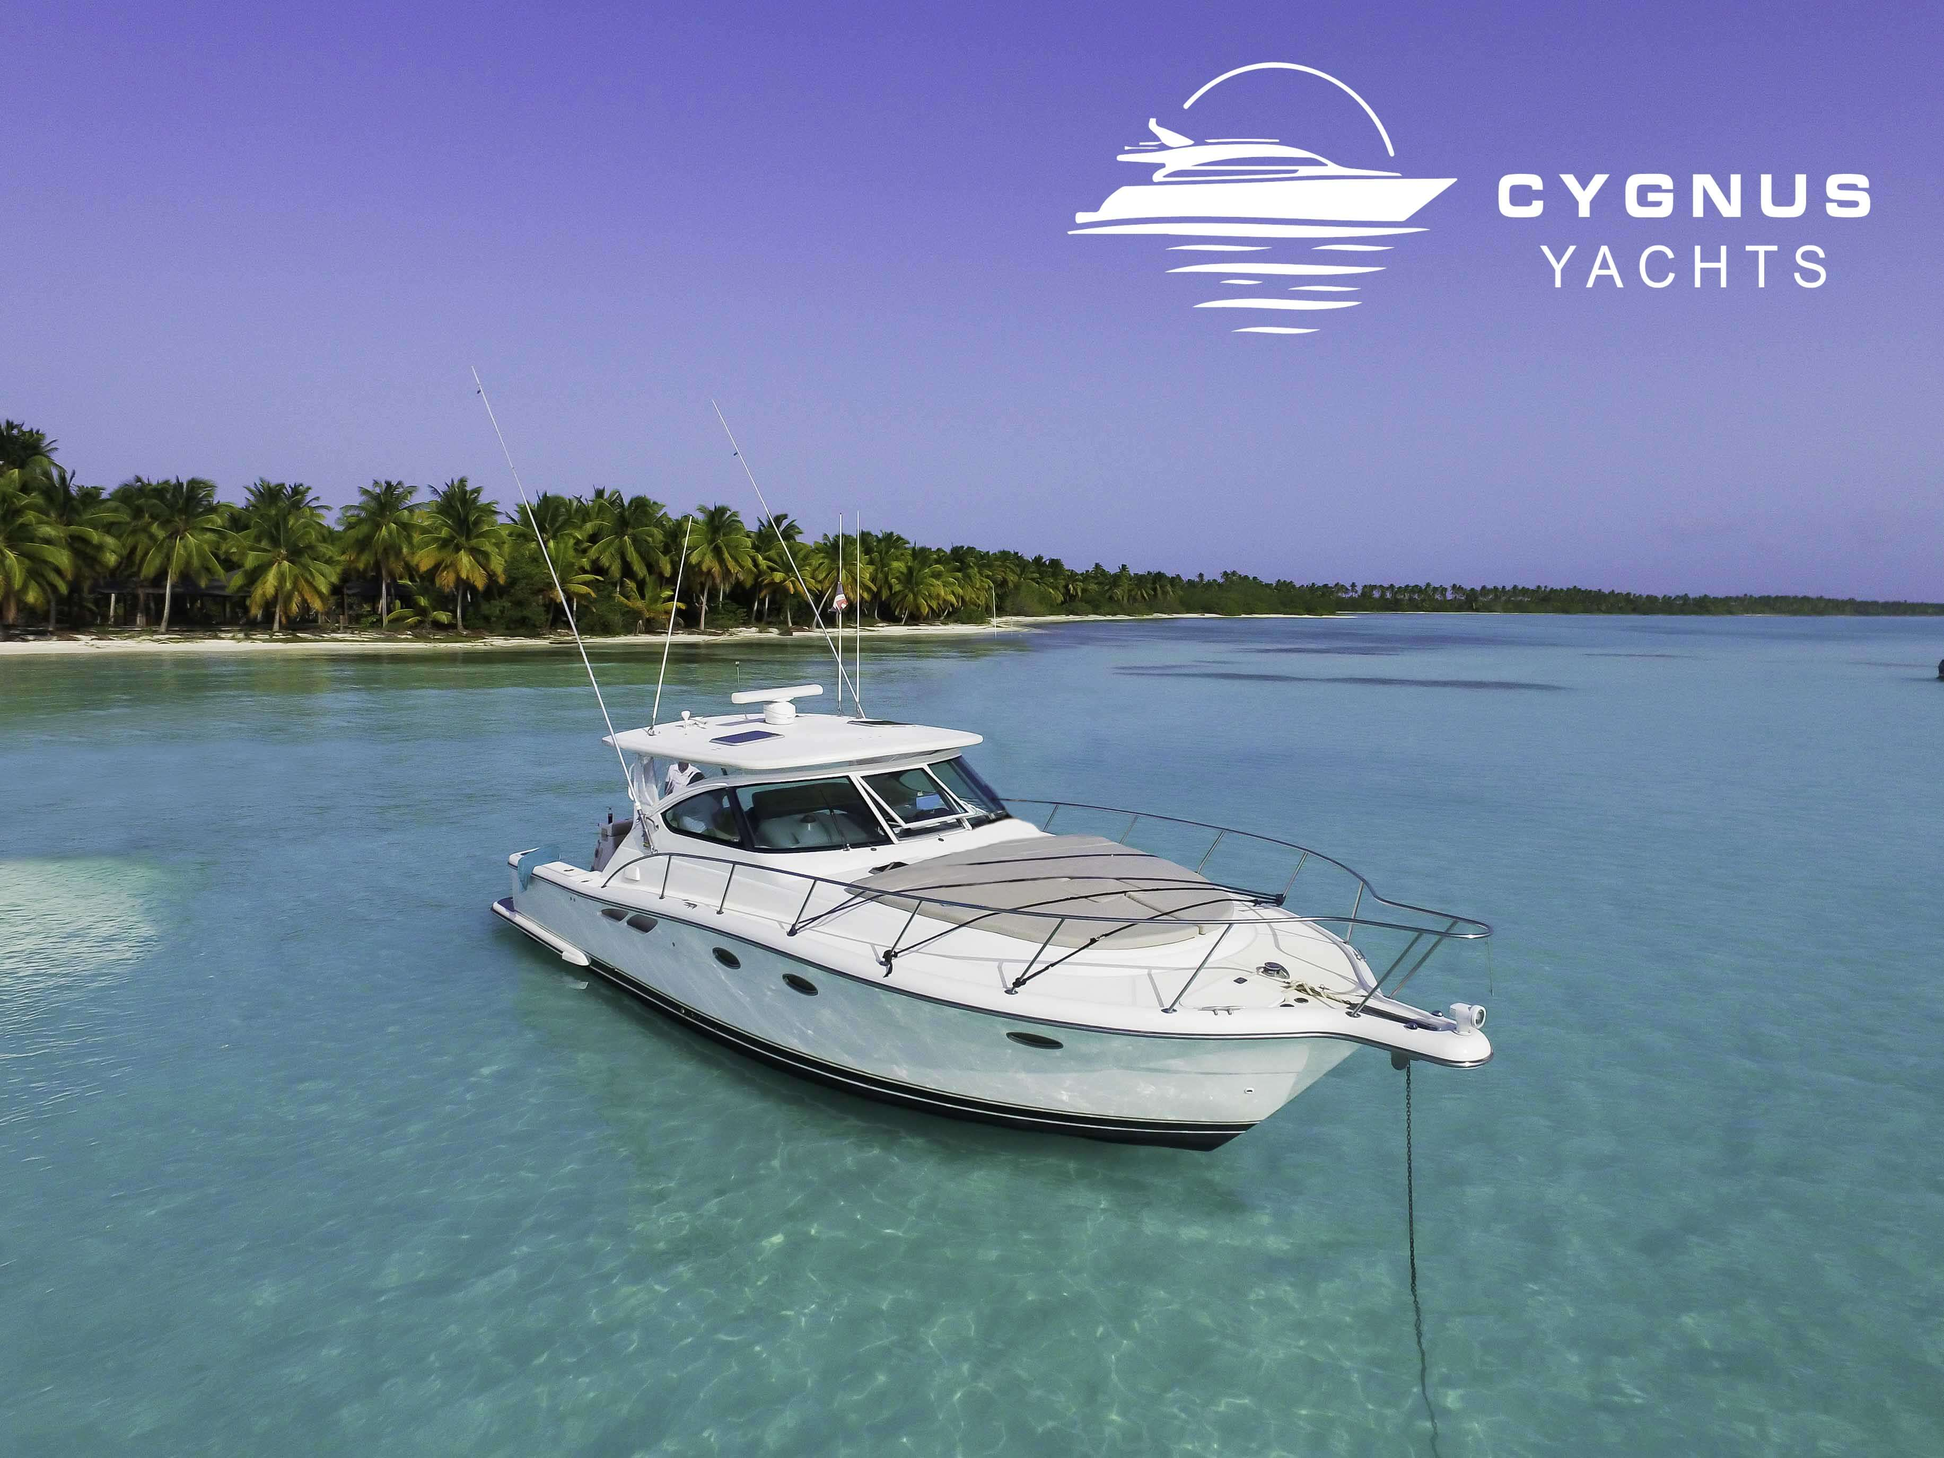
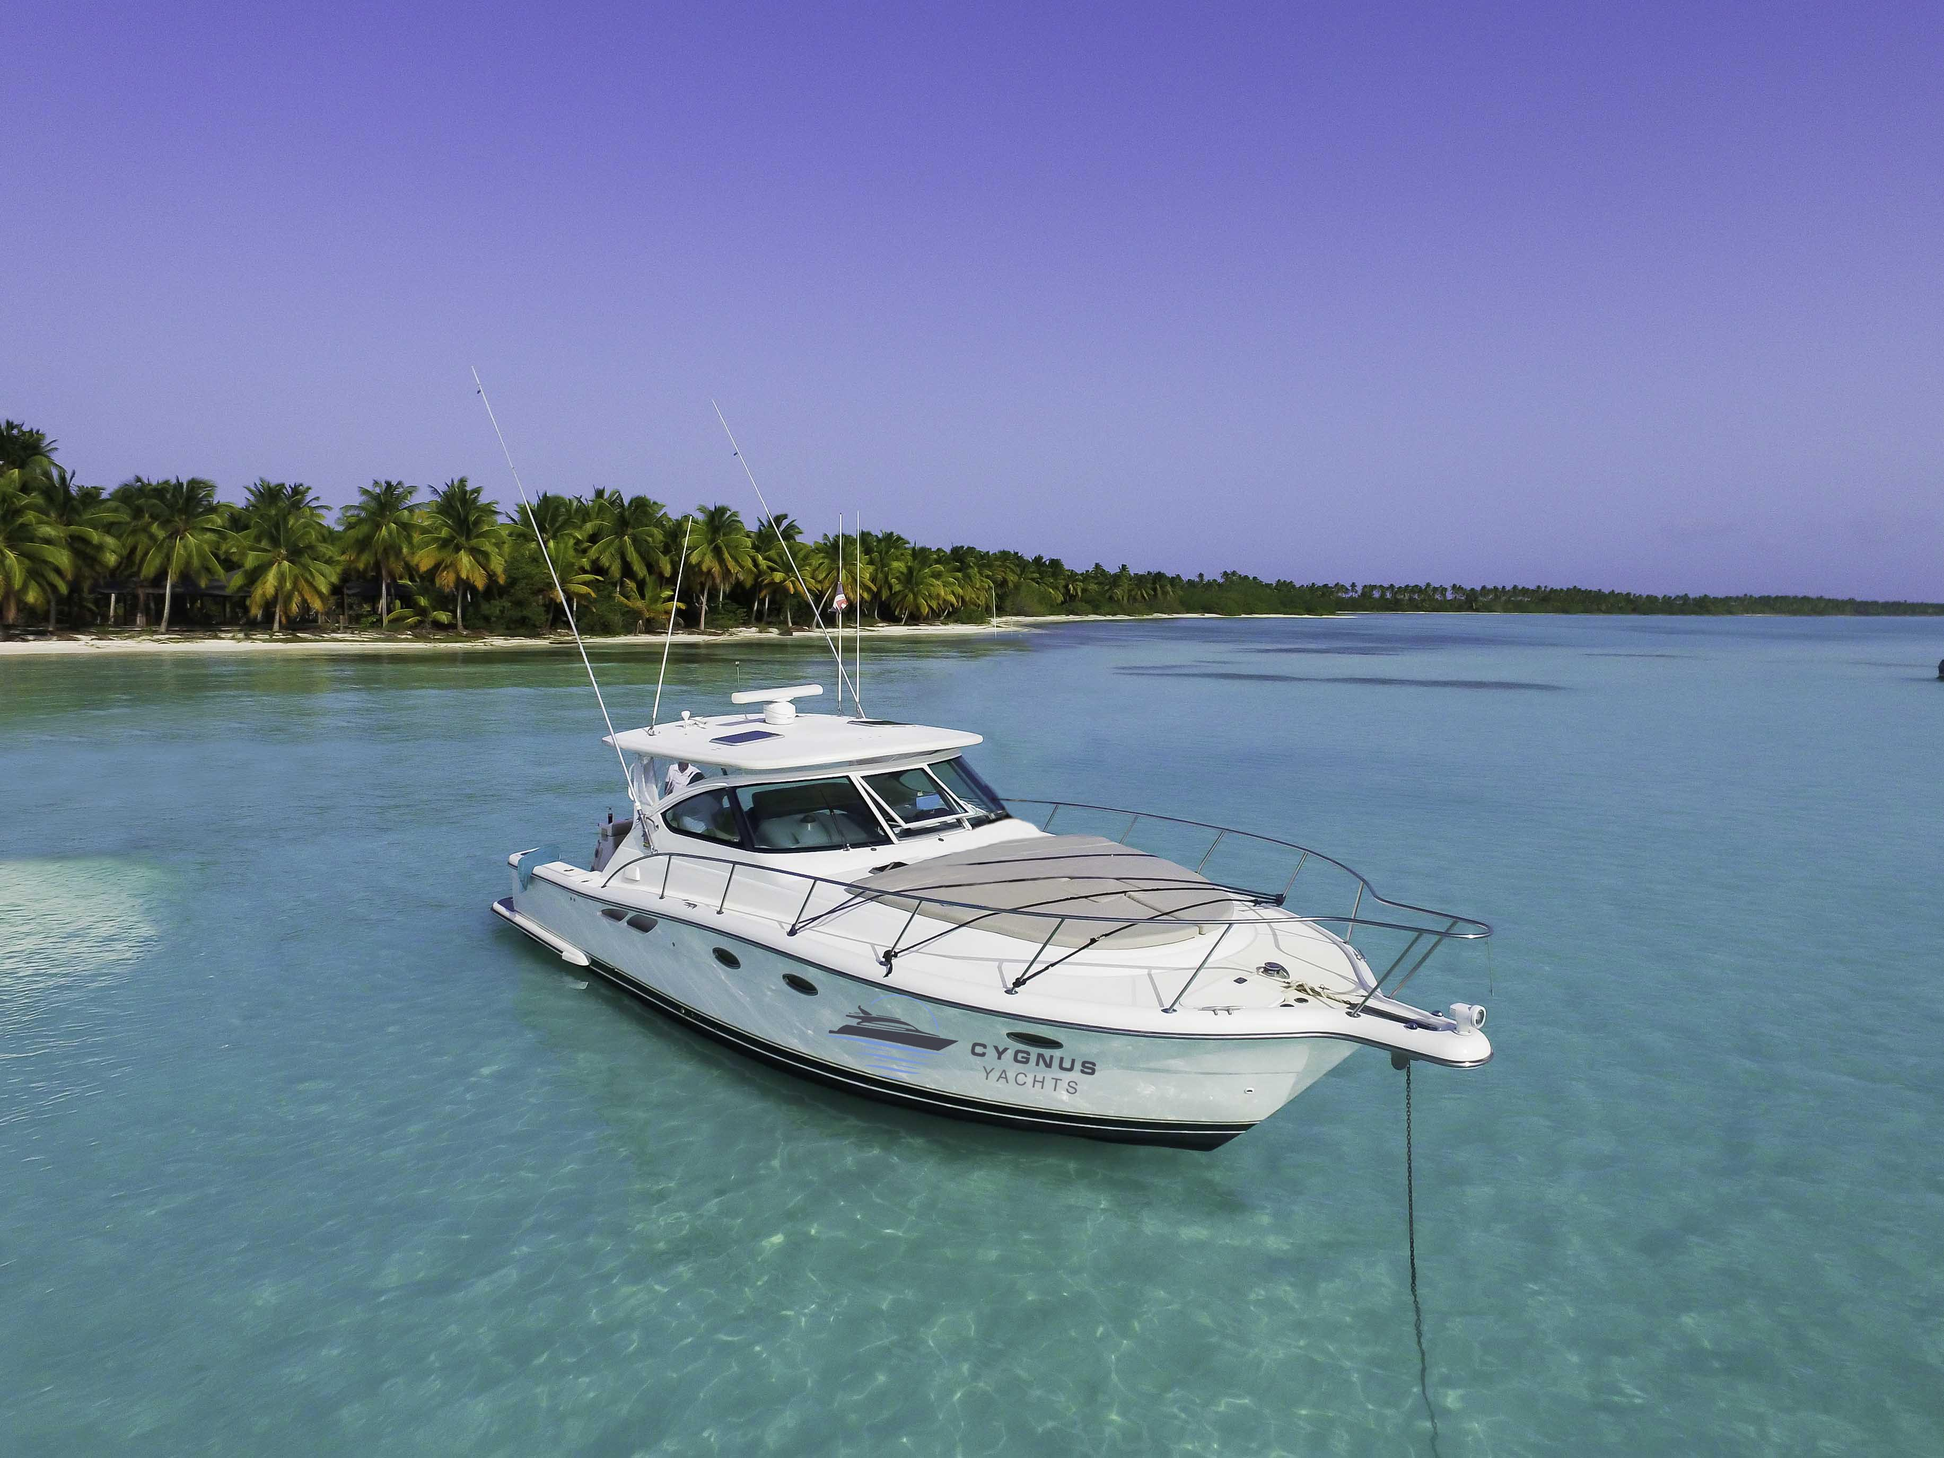
I fix bug in saona gallery

Changed region(s): [[0.5597, 0.0618, 0.964, 0.2164], [0.4354, 0.68, 0.5597, 0.7418], [0.6219, 0.0309, 0.6841, 0.0618]]

diff --git a/destinations/saona.html b/destinations/saona.html
@@ -24,11 +24,11 @@
             <div class="overlay"> 
                 <header class="header" id="header">
                     <nav class="nav container">
-                        <a href="index.html" class="nav__logo  nav__logo--color" id="nav_logoColor">
-                            <img src="assets/img/logocygnus-color.png" class="brand-logo" alt="Cygnus Yachts">
+                        <a href="../index.html" class="nav__logo  nav__logo--color" id="nav_logoColor">
+                            <img src="../assets/img/logocygnus-color.png" class="brand-logo" alt="Cygnus Yachts">
                           </a>
-                          <a href="index.html" class="nav__logo nav__logo--white" id="nav_logoWhite">
-                            <img src="assets/img/logoCygnus.png" class="brand-logo" alt="Cygnus Yachts">
+                          <a href="../index.html" class="nav__logo nav__logo--white" id="nav_logoWhite">
+                            <img src="../assets/img/logoCygnus.png" class="brand-logo" alt="Cygnus Yachts">
                           </a>
         
                         <div class="nav__menu" id="nav-menu">
@@ -75,9 +75,10 @@
                   </div>
             </div>
         </main>
+    
         <div class="container-gallery-contact container">
             <div class="yacht-gallery mt-5">
-                <div class="slide-container container grid">
+                <div class="slide-container">
                         <div
                         style="--swiper-navigation-color: #fff; --swiper-pagination-color: #fff"
                         class="swiper mySwiper2"
@@ -87,10 +88,9 @@
                             <img src="https://res.cloudinary.com/michaelxk-com/image/upload/v1643829252/cygnus%20yachts/pictures/destinations/pages/saona/saona_jlscfy.jpg" />
                         </div>
                         <div class="swiper-slide">
-                            <img src="https://res.cloudinary.com/michaelxk-com/image/upload/v1643829252/cygnus%20yachts/pictures/destinations/pages/saona/saona_jlscfy.jpg" />
+                            <img src="../assets/img/destination-main/saona/saona2.jpeg" />
                         </div>
                         
-                       
                     </div>
                     
                     <div class="swiper-button-next"></div>
@@ -98,13 +98,12 @@
                 </div>
                     <div thumbsSlider="" class="swiper mySwiper">
                         <div class="swiper-wrapper">
-                            <div class="swiper-slide">
-                                <img src="https://res.cloudinary.com/michaelxk-com/image/upload/v1643829252/cygnus%20yachts/pictures/destinations/pages/saona/saona_jlscfy.jpg" />
-                            </div>
-                            <div class="swiper-slide">
-                                <img src="https://res.cloudinary.com/michaelxk-com/image/upload/v1643829252/cygnus%20yachts/pictures/destinations/pages/saona/saona_jlscfy.jpg" />
-                            </div>
-                
+                        <div class="swiper-slide">
+                            <img src="https://res.cloudinary.com/michaelxk-com/image/upload/v1643829252/cygnus%20yachts/pictures/destinations/pages/saona/saona_jlscfy.jpg" />
+                        </div>
+                        <div class="swiper-slide">
+                            <img src="../assets/img/destination-main/saona/saona2.jpeg" />
+                        </div>
                         </div>
                     </div>
                     
@@ -136,7 +135,6 @@
                 </div>
             </article>
         </div>
-    
     
     
         <section class="destination-banner-template">

diff --git a/destinations/bayahibe.html b/destinations/bayahibe.html
@@ -24,11 +24,11 @@
             <div class="overlay"> 
                 <header class="header" id="header">
                     <nav class="nav container">
-                        <a href="index.html" class="nav__logo  nav__logo--color" id="nav_logoColor">
-                            <img src="assets/img/logocygnus-color.png" class="brand-logo" alt="Cygnus Yachts">
+                        <a href="../index.html" class="nav__logo  nav__logo--color" id="nav_logoColor">
+                            <img src="../assets/img/logocygnus-color.png" class="brand-logo" alt="Cygnus Yachts">
                           </a>
-                          <a href="index.html" class="nav__logo nav__logo--white" id="nav_logoWhite">
-                            <img src="assets/img/logoCygnus.png" class="brand-logo" alt="Cygnus Yachts">
+                          <a href="../index.html" class="nav__logo nav__logo--white" id="nav_logoWhite">
+                            <img src="../assets/img/logoCygnus.png" class="brand-logo" alt="Cygnus Yachts">
                           </a>
         
                         <div class="nav__menu" id="nav-menu">

diff --git a/destinations/catalina.html b/destinations/catalina.html
@@ -24,11 +24,11 @@
             <div class="overlay"> 
                 <header class="header" id="header">
                     <nav class="nav container">
-                        <a href="index.html" class="nav__logo  nav__logo--color" id="nav_logoColor">
-                            <img src="assets/img/logocygnus-color.png" class="brand-logo" alt="Cygnus Yachts">
+                        <a href="../index.html" class="nav__logo  nav__logo--color" id="nav_logoColor">
+                            <img src="../assets/img/logocygnus-color.png" class="brand-logo" alt="Cygnus Yachts">
                           </a>
-                          <a href="index.html" class="nav__logo nav__logo--white" id="nav_logoWhite">
-                            <img src="assets/img/logoCygnus.png" class="brand-logo" alt="Cygnus Yachts">
+                          <a href="../index.html" class="nav__logo nav__logo--white" id="nav_logoWhite">
+                            <img src="../assets/img/logoCygnus.png" class="brand-logo" alt="Cygnus Yachts">
                           </a>
         
                         <div class="nav__menu" id="nav-menu">

diff --git a/destinations/palmilla.html b/destinations/palmilla.html
@@ -23,11 +23,11 @@
             <div class="overlay"> 
                 <header class="header" id="header">
                     <nav class="nav container">
-                        <a href="index.html" class="nav__logo  nav__logo--color" id="nav_logoColor">
-                            <img src="assets/img/logocygnus-color.png" class="brand-logo" alt="Cygnus Yachts">
+                        <a href="../index.html" class="nav__logo  nav__logo--color" id="nav_logoColor">
+                            <img src="../assets/img/logocygnus-color.png" class="brand-logo" alt="Cygnus Yachts">
                           </a>
-                          <a href="index.html" class="nav__logo nav__logo--white" id="nav_logoWhite">
-                            <img src="assets/img/logoCygnus.png" class="brand-logo" alt="Cygnus Yachts">
+                          <a href="../index.html" class="nav__logo nav__logo--white" id="nav_logoWhite">
+                            <img src="../assets/img/logoCygnus.png" class="brand-logo" alt="Cygnus Yachts">
                           </a>
         
                         <div class="nav__menu" id="nav-menu">

diff --git a/destinations/puntacana.html b/destinations/puntacana.html
@@ -25,11 +25,11 @@
             <div class="overlay"> 
                 <header class="header" id="header">
                     <nav class="nav container">
-                        <a href="index.html" class="nav__logo  nav__logo--color" id="nav_logoColor">
-                            <img src="assets/img/logocygnus-color.png" class="brand-logo" alt="Cygnus Yachts">
+                        <a href="../index.html" class="nav__logo  nav__logo--color" id="nav_logoColor">
+                            <img src="../assets/img/logocygnus-color.png" class="brand-logo" alt="Cygnus Yachts">
                           </a>
-                          <a href="index.html" class="nav__logo nav__logo--white" id="nav_logoWhite">
-                            <img src="assets/img/logoCygnus.png" class="brand-logo" alt="Cygnus Yachts">
+                          <a href="../index.html" class="nav__logo nav__logo--white" id="nav_logoWhite">
+                            <img src="../assets/img/logoCygnus.png" class="brand-logo" alt="Cygnus Yachts">
                           </a>
         
                         <div class="nav__menu" id="nav-menu">

diff --git a/yachts/aiconfly.html b/yachts/aiconfly.html
@@ -23,11 +23,11 @@
             <div class="overlay"> 
                 <header class="header" id="header">
                     <nav class="nav container">
-                        <a href="index.html" class="nav__logo  nav__logo--color" id="nav_logoColor">
-                            <img src="assets/img/logocygnus-color.png" class="brand-logo" alt="Cygnus Yachts">
+                        <a href="../index.html" class="nav__logo  nav__logo--color" id="nav_logoColor">
+                            <img src="../assets/img/logocygnus-color.png" class="brand-logo" alt="Cygnus Yachts">
                           </a>
-                          <a href="index.html" class="nav__logo nav__logo--white" id="nav_logoWhite">
-                            <img src="assets/img/logoCygnus.png" class="brand-logo" alt="Cygnus Yachts">
+                          <a href="../index.html" class="nav__logo nav__logo--white" id="nav_logoWhite">
+                            <img src="../assets/img/logoCygnus.png" class="brand-logo" alt="Cygnus Yachts">
                           </a>
         
                         <div class="nav__menu" id="nav-menu">

diff --git a/yachts/azimut-55.html b/yachts/azimut-55.html
@@ -23,11 +23,11 @@
             <div class="overlay"> 
                 <header class="header" id="header">
                     <nav class="nav container">
-                        <a href="index.html" class="nav__logo  nav__logo--color" id="nav_logoColor">
-                            <img src="assets/img/logocygnus-color.png" class="brand-logo" alt="Cygnus Yachts">
+                        <a href="../index.html" class="nav__logo  nav__logo--color" id="nav_logoColor">
+                            <img src="../assets/img/logocygnus-color.png" class="brand-logo" alt="Cygnus Yachts">
                           </a>
-                          <a href="index.html" class="nav__logo nav__logo--white" id="nav_logoWhite">
-                            <img src="assets/img/logoCygnus.png" class="brand-logo" alt="Cygnus Yachts">
+                          <a href="../index.html" class="nav__logo nav__logo--white" id="nav_logoWhite">
+                            <img src="../assets/img/logoCygnus.png" class="brand-logo" alt="Cygnus Yachts">
                           </a>
         
                         <div class="nav__menu" id="nav-menu">

diff --git a/yachts/bennety.html b/yachts/bennety.html
@@ -23,11 +23,11 @@
             <div class="overlay"> 
                 <header class="header" id="header">
                     <nav class="nav container">
-                        <a href="index.html" class="nav__logo  nav__logo--color" id="nav_logoColor">
-                            <img src="assets/img/logocygnus-color.png" class="brand-logo" alt="Cygnus Yachts">
+                        <a href="../index.html" class="nav__logo  nav__logo--color" id="nav_logoColor">
+                            <img src="../assets/img/logocygnus-color.png" class="brand-logo" alt="Cygnus Yachts">
                           </a>
-                          <a href="index.html" class="nav__logo nav__logo--white" id="nav_logoWhite">
-                            <img src="assets/img/logoCygnus.png" class="brand-logo" alt="Cygnus Yachts">
+                          <a href="../index.html" class="nav__logo nav__logo--white" id="nav_logoWhite">
+                            <img src="../assets/img/logoCygnus.png" class="brand-logo" alt="Cygnus Yachts">
                           </a>
         
                         <div class="nav__menu" id="nav-menu">

diff --git a/yachts/cranchi-50.html b/yachts/cranchi-50.html
@@ -23,11 +23,11 @@
             <div class="overlay"> 
                 <header class="header" id="header">
                     <nav class="nav container">
-                        <a href="index.html" class="nav__logo  nav__logo--color" id="nav_logoColor">
-                            <img src="assets/img/logocygnus-color.png" class="brand-logo" alt="Cygnus Yachts">
+                        <a href="../index.html" class="nav__logo  nav__logo--color" id="nav_logoColor">
+                            <img src="../assets/img/logocygnus-color.png" class="brand-logo" alt="Cygnus Yachts">
                           </a>
-                          <a href="index.html" class="nav__logo nav__logo--white" id="nav_logoWhite">
-                            <img src="assets/img/logoCygnus.png" class="brand-logo" alt="Cygnus Yachts">
+                          <a href="../index.html" class="nav__logo nav__logo--white" id="nav_logoWhite">
+                            <img src="../assets/img/logoCygnus.png" class="brand-logo" alt="Cygnus Yachts">
                           </a>
         
                         <div class="nav__menu" id="nav-menu">

diff --git a/yachts/fairline.html b/yachts/fairline.html
@@ -23,11 +23,11 @@
             <div class="overlay"> 
                 <header class="header" id="header">
                     <nav class="nav container">
-                        <a href="index.html" class="nav__logo  nav__logo--color" id="nav_logoColor">
-                            <img src="assets/img/logocygnus-color.png" class="brand-logo" alt="Cygnus Yachts">
+                        <a href="../index.html" class="nav__logo  nav__logo--color" id="nav_logoColor">
+                            <img src="../assets/img/logocygnus-color.png" class="brand-logo" alt="Cygnus Yachts">
                           </a>
-                          <a href="index.html" class="nav__logo nav__logo--white" id="nav_logoWhite">
-                            <img src="assets/img/logoCygnus.png" class="brand-logo" alt="Cygnus Yachts">
+                          <a href="../index.html" class="nav__logo nav__logo--white" id="nav_logoWhite">
+                            <img src="../assets/img/logoCygnus.png" class="brand-logo" alt="Cygnus Yachts">
                           </a>
         
                         <div class="nav__menu" id="nav-menu">

diff --git a/yachts/fairline43.html b/yachts/fairline43.html
@@ -23,11 +23,11 @@
             <div class="overlay"> 
                 <header class="header" id="header">
                     <nav class="nav container">
-                        <a href="index.html" class="nav__logo  nav__logo--color" id="nav_logoColor">
-                            <img src="assets/img/logocygnus-color.png" class="brand-logo" alt="Cygnus Yachts">
+                        <a href="../index.html" class="nav__logo  nav__logo--color" id="nav_logoColor">
+                            <img src="../assets/img/logocygnus-color.png" class="brand-logo" alt="Cygnus Yachts">
                           </a>
-                          <a href="index.html" class="nav__logo nav__logo--white" id="nav_logoWhite">
-                            <img src="assets/img/logoCygnus.png" class="brand-logo" alt="Cygnus Yachts">
+                          <a href="../index.html" class="nav__logo nav__logo--white" id="nav_logoWhite">
+                            <img src="../assets/img/logoCygnus.png" class="brand-logo" alt="Cygnus Yachts">
                           </a>
         
                         <div class="nav__menu" id="nav-menu">

diff --git a/yachts/ferriti.html b/yachts/ferriti.html
@@ -23,11 +23,11 @@
             <div class="overlay"> 
                 <header class="header" id="header">
                     <nav class="nav container">
-                        <a href="index.html" class="nav__logo  nav__logo--color" id="nav_logoColor">
-                            <img src="assets/img/logocygnus-color.png" class="brand-logo" alt="Cygnus Yachts">
+                        <a href="../index.html" class="nav__logo  nav__logo--color" id="nav_logoColor">
+                            <img src="../assets/img/logocygnus-color.png" class="brand-logo" alt="Cygnus Yachts">
                           </a>
-                          <a href="index.html" class="nav__logo nav__logo--white" id="nav_logoWhite">
-                            <img src="assets/img/logoCygnus.png" class="brand-logo" alt="Cygnus Yachts">
+                          <a href="../index.html" class="nav__logo nav__logo--white" id="nav_logoWhite">
+                            <img src="../assets/img/logoCygnus.png" class="brand-logo" alt="Cygnus Yachts">
                           </a>
         
                         <div class="nav__menu" id="nav-menu">
